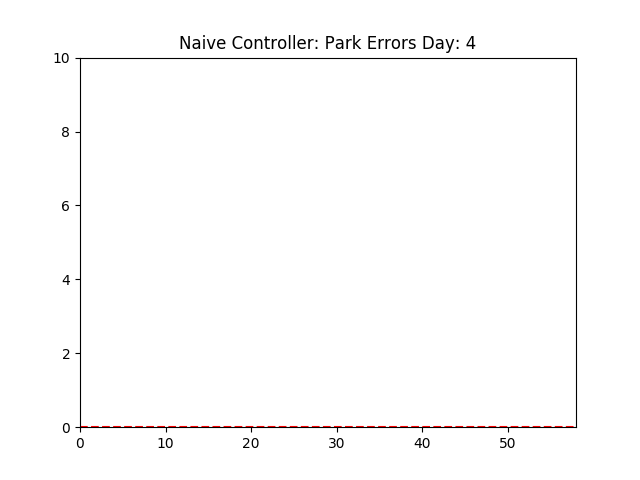
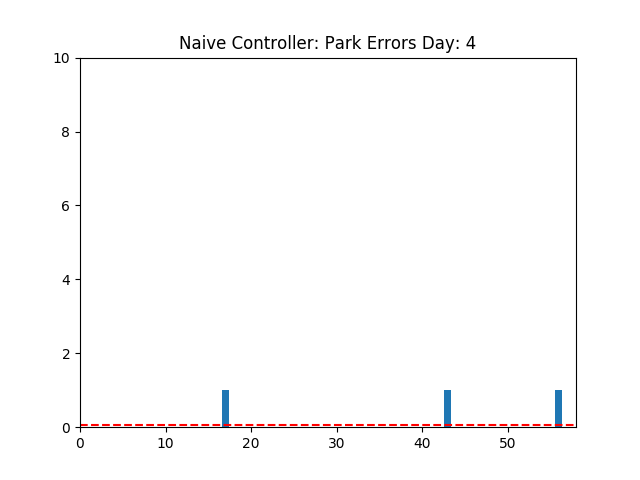
got it working

Changed region(s): [[0.125, 0.8125, 0.9062, 0.9062]]

diff --git a/simulator/output_formatting/heatmap.py b/simulator/output_formatting/heatmap.py
@@ -174,8 +174,6 @@ def heatmap_run(current_time, idle_vehicles, available_parking):
     sys.exit()
     env = np.zeros((len(data3), imageWidth, imageHeight))
 
-    points = []
-
     pix = np.zeros((imageWidth, imageHeight, 2))
     for j in range(imageWidth):
         for k in range(imageHeight):
@@ -188,9 +186,6 @@ def heatmap_run(current_time, idle_vehicles, available_parking):
         env[i, :, :] = -.005 * ((pix[:, :, 0] - coordinates[0]) ** 2 + (pix[:, :, 1] - coordinates[1]) ** 2)
         env[i, :, :] = s * np.exp(env[i, :, :])
 
-    points = np.array(points)
-    # print(points)
-
     grayscale = np.sum(env, axis=0)
 
     plt.imshow(grayscale.T, cmap='jet')
@@ -200,36 +195,11 @@ def heatmap_run(current_time, idle_vehicles, available_parking):
     Y = locations[:, 0] - np.min(locations[:, 0])
     Y = imageHeight * Y / np.max(Y)
 
-    # fig, ax = plt.subplots()
-    # ax.scatter(X, Y, s=8, c='w', marker='.')
-    # n = input_data.iloc[:, 3]
-    # for i, txt in enumerate(n):
-    # ax.annotate(txt, (X[i], Y[i]))
-
     plt.scatter(X, Y, s=8, c='w', marker='.')
-    # plt.show()  # FIXME must be commented out to have the file save correctly
-
-    ############################
-    ############################
+    # plt.show()
 
     plt.title('Time of Day: {}'.format(jst[current_time].time()))  # adds corresponding titles
     plt.savefig('output_files/graphs/heatmaps/heatmap_%d.png' % current_time, bbox_inches='tight')  # saves pics with diff names
-
-    ############################
-    ############################
-
-
-# heatmap_run(0, [], [])  # test function run
-
-
-avail_parking = np.load("./input_data/input_data/available_parking.npy")
-idle_vehicles = np.load("./input_data/input_data/idle_vehicles.npy")
-
-total_timesteps = avail_parking.size / 58
-
-for timestep in range(0, int(total_timesteps)):
-    if timestep % 6 == 0:
-        heatmap_run(timestep, idle_vehicles[timestep], avail_parking[timestep])
 
 
 print("\noutput_files/graphs/heatmaps/* created")

diff --git a/simulator/output_formatting/measurement.py b/simulator/output_formatting/measurement.py
@@ -40,7 +40,7 @@ class Measurement:
         for day in range(10):
             x = np.array([i for i in range(58)])
             y = time_empty[:, day*288:(day+1)*288]
-            y = np.sum(y, axis=0)
+            y = np.sum(y, axis=1)
             e = []
             temp = []
             for station in station_ids:
@@ -60,7 +60,7 @@ class Measurement:
         for day in range(10):
             x = np.array([i for i in range(58)])
             y = time_full[:, day*288:(day+1)*288]
-            y = np.sum(y, axis=0)
+            y = np.sum(y, axis=1)
             e = []
             temp = []
             for station in station_ids:
@@ -79,7 +79,7 @@ class Measurement:
         for day in range(10):
             x = np.array([i for i in range(58)])
             y = park_errors[:, day*288:(day+1)*288]
-            y = np.sum(y, axis=0)
+            y = np.sum(y, axis=1)
             e = []
             temp = []
             for station in station_ids:
@@ -87,7 +87,7 @@ class Measurement:
             # Error Bars (for the future maybe)
             # for i in range(58):
             #     e.append(np.std(park_errors[i][:] / 2.88))
-            plt.ylim(0, 10)
+            plt.ylim(0, 15)
             plt.xlim(0, 58)
             plt.plot([0, 58], [np.mean(y), np.mean(y)], '--', c='r')
             plt.bar(x, temp)
@@ -98,7 +98,7 @@ class Measurement:
         for day in range(10):
             x = np.array([i for i in range(58)])
             y = vehicle_errors[:, day*288:(day+1)*288]
-            y = np.sum(y, axis=0)
+            y = np.sum(y, axis=1)
             e = []
             temp = []
             for station in station_ids:

diff --git a/simulator/run.py b/simulator/run.py
@@ -2,6 +2,7 @@ from simulator.update import Update
 
 from simulator.output_formatting.overview import write, output
 from simulator.output_formatting.measurement import Measurement
+from simulator.output_formatting.heatmap import heatmap_run
 
 from simulator.setup import cust_requests, setup_vars
 
@@ -23,7 +24,7 @@ def run(controller):
     write("output_files/station_overview.txt", text)
 
     # Creates Heatmap images
-    # heatmap_run(time, idle_vehicles, parking_per_station)
+    # heatmap_run()
 
     # Creates graphs and a file full of measurements
     Measurement().record(errors, "output_files/measurements.txt")

diff --git a/simulator/update.py b/simulator/update.py
@@ -31,7 +31,6 @@ class Update:
         if self.controller == "naive" or self.controller == "n":
             self.morning_start = 72  # 6am
             self.morning_end = 96  # 8am
-
             self.evening_start = 180  # 3pm
             self.evening_end = 204  # 5pm
         else:
@@ -247,7 +246,6 @@ class Update:
         from simulator.controllers.smart.smart import SmartController
 
         smart = SmartController()
-        smart.initialize()
         return smart
 
     def station_initializer(self, setup_vars):
